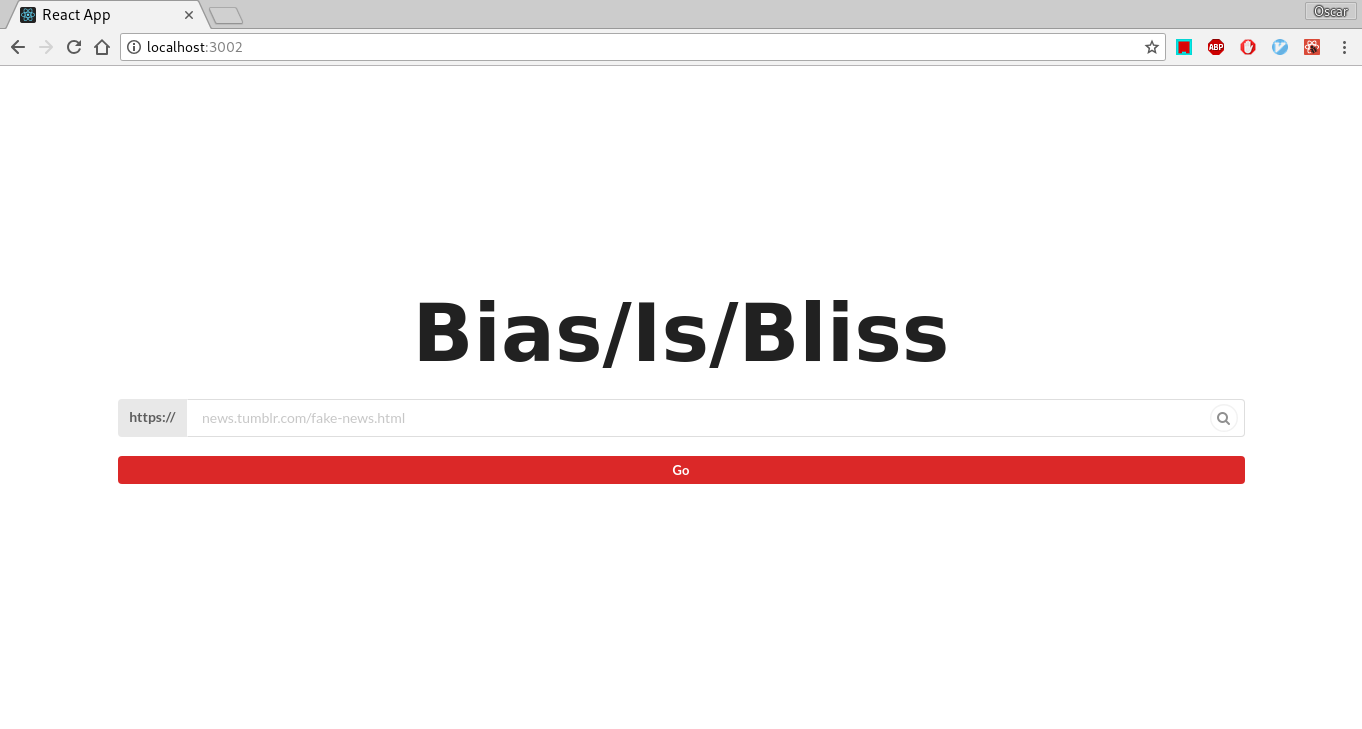
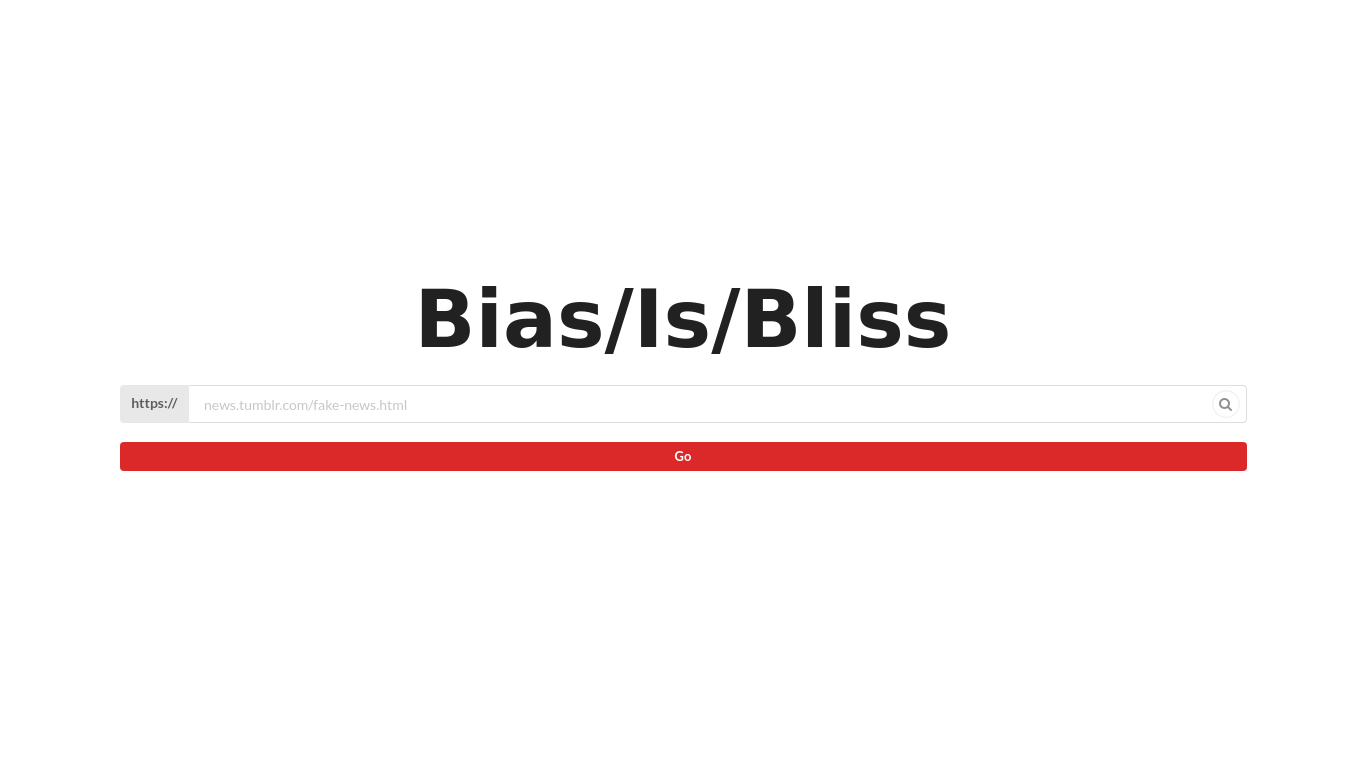
edit portfolio

diff --git a/mail/contact_me.php b/mail/contact_me.php
@@ -16,10 +16,10 @@ $phone = strip_tags(htmlspecialchars($_POST['phone']));
 $message = strip_tags(htmlspecialchars($_POST['message']));
 	
 // Create the email and send the message
-$to = 'yourname@yourdomain.com'; // Add your email address inbetween the '' replacing yourname@yourdomain.com - This is where the form will send a message to.
-$email_subject = "Website Contact Form:  $name";
+$to = '98Hernandez.Oscar@gmail.com'; // Add your email address inbetween the '' replacing yourname@yourdomain.com - This is where the form will send a message to.
+$email_subject = "mathemessage from:  $name";
 $email_body = "You have received a new message from your website contact form.\n\n"."Here are the details:\n\nName: $name\n\nEmail: $email_address\n\nPhone: $phone\n\nMessage:\n$message";
-$headers = "From: noreply@yourdomain.com\n"; // This is the email address the generated message will be from. We recommend using something like noreply@yourdomain.com.
+$headers = "From: noreply@mathemonads.github.io\n"; // This is the email address the generated message will be from. We recommend using something like noreply@yourdomain.com.
 $headers .= "Reply-To: $email_address";	
 mail($to,$email_subject,$email_body,$headers);
 return true;			
